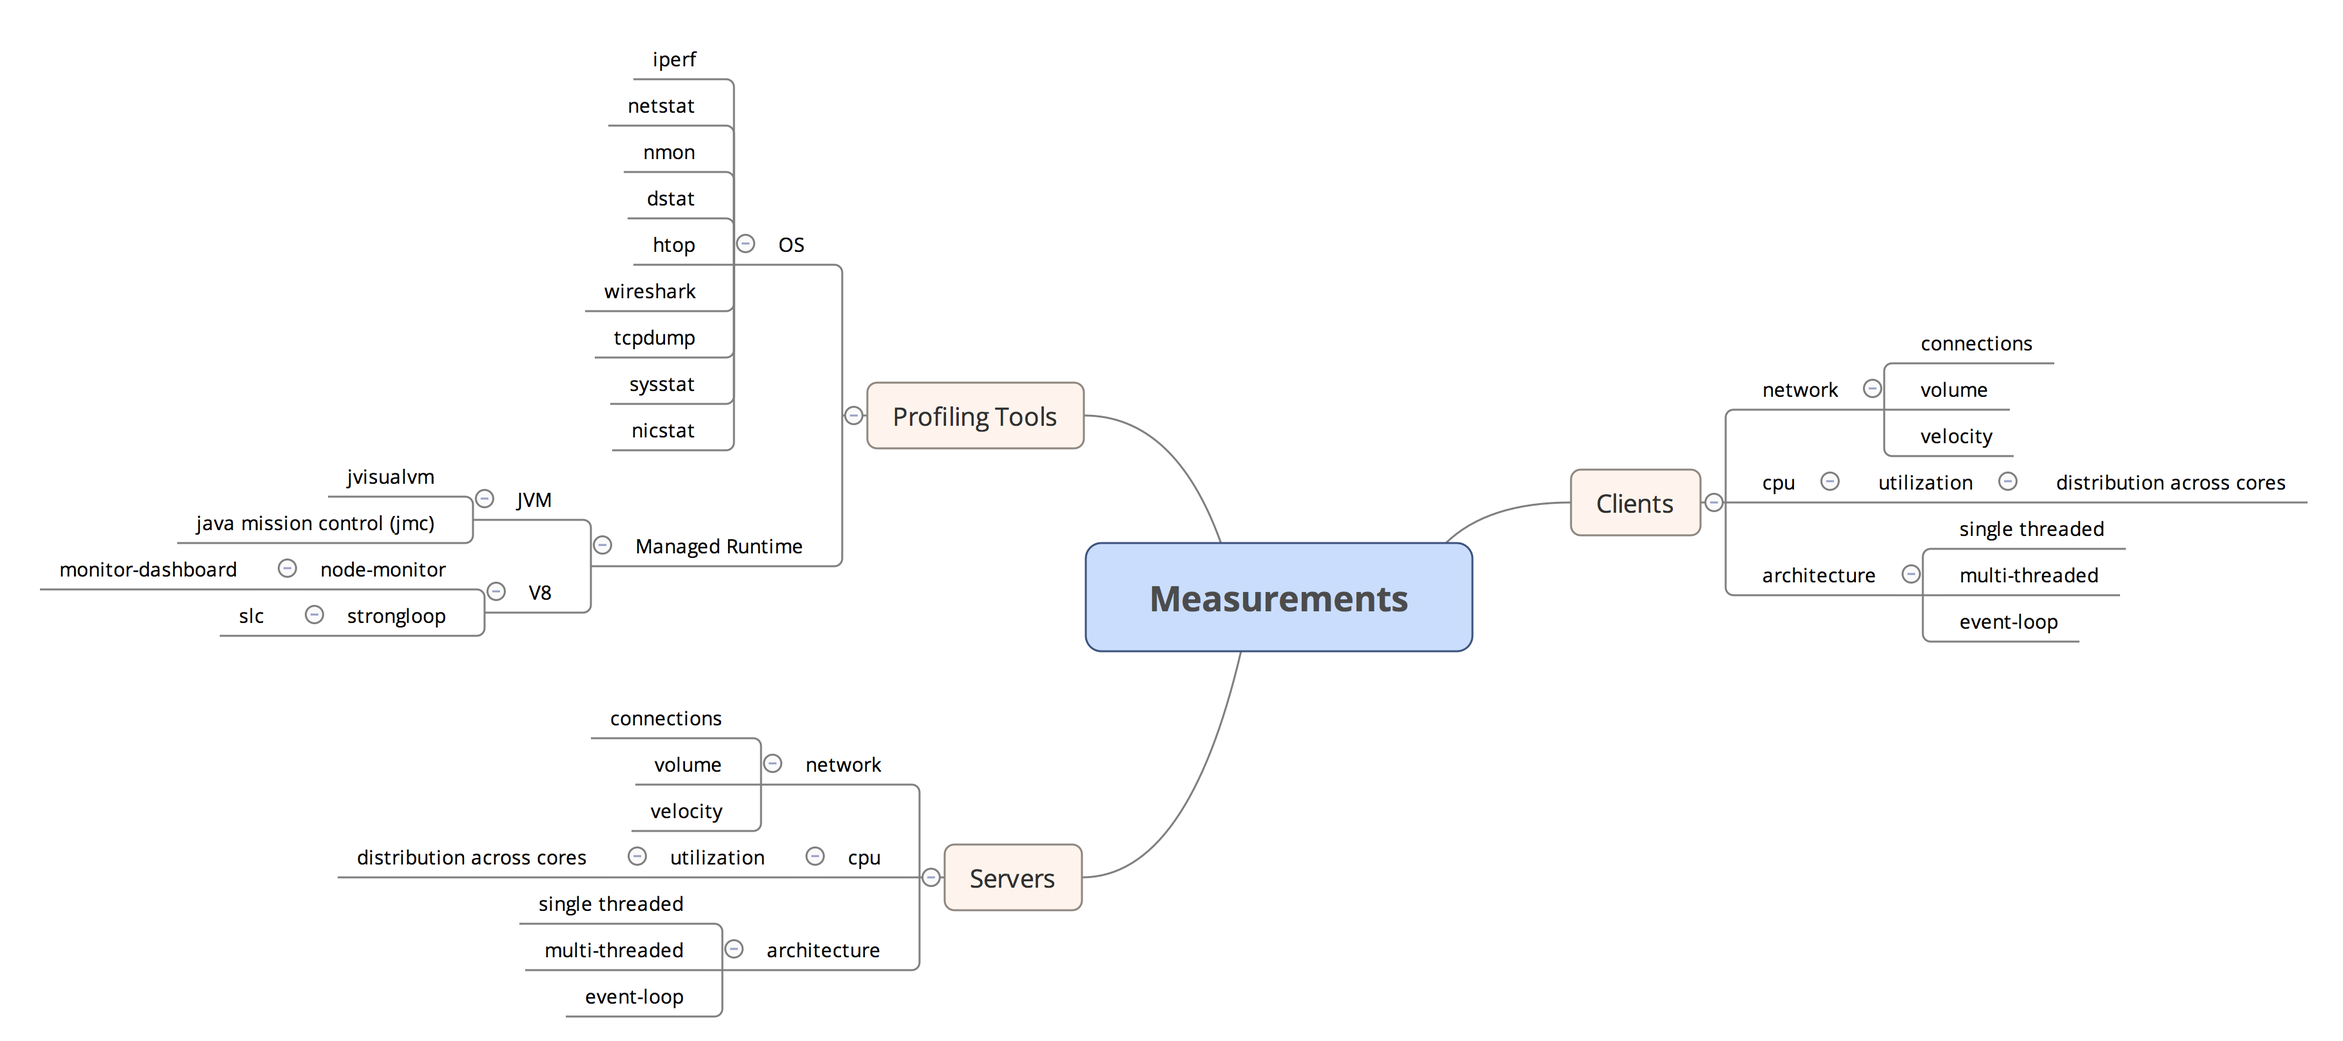
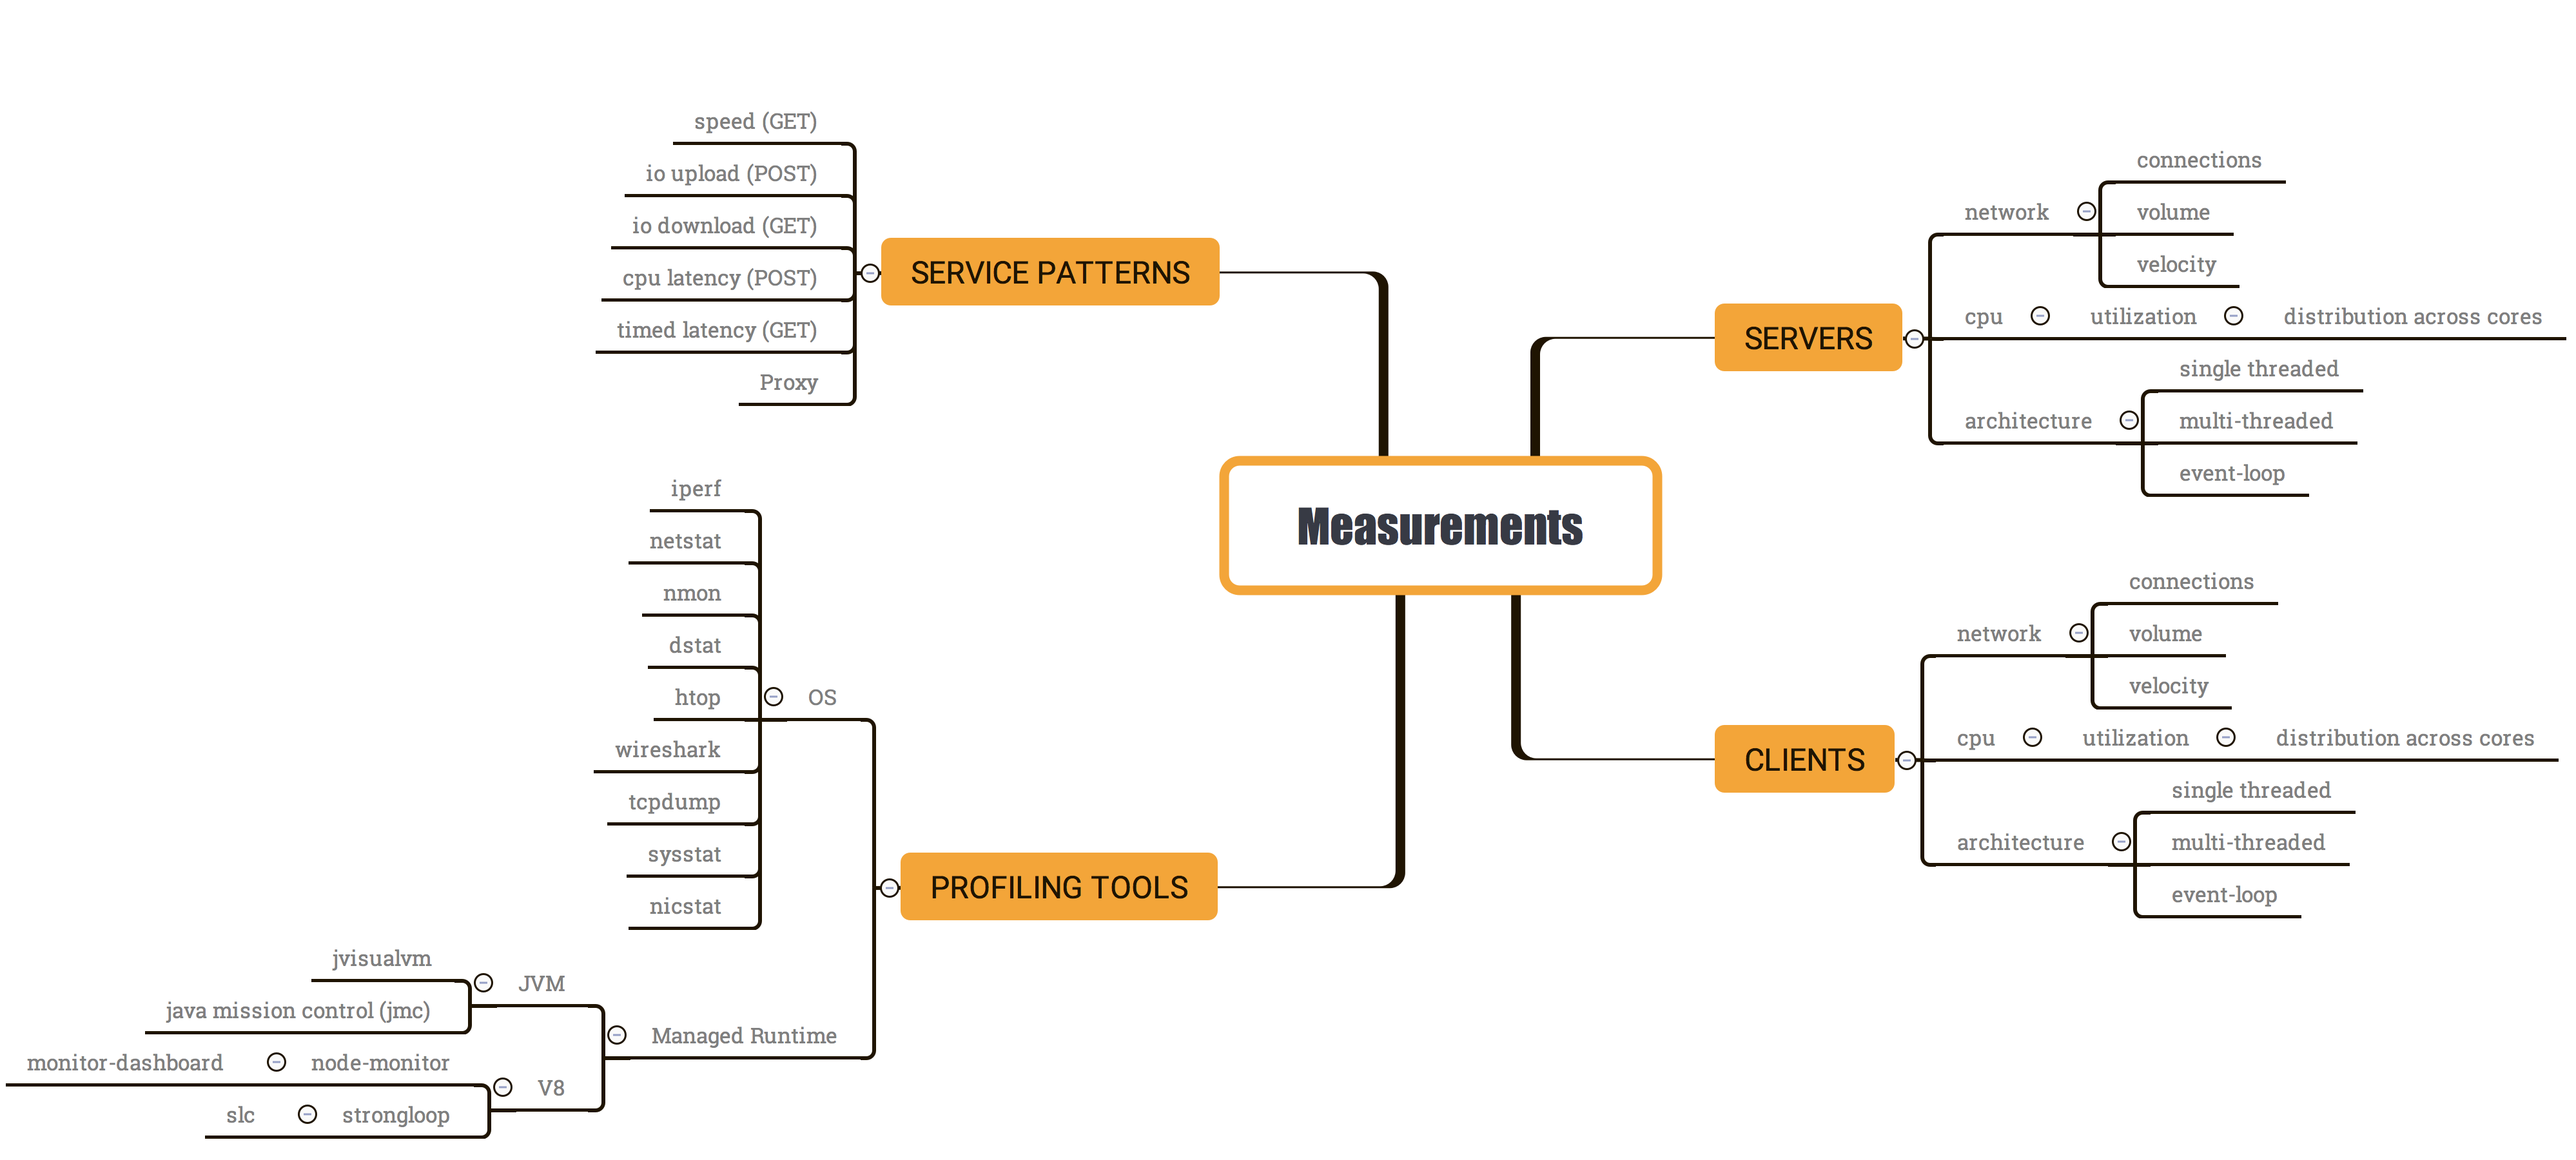
more documentation artifacts

Changed region(s): [[0.0, 0.0619, 0.9945, 0.9901], [0.3729, 0.8354, 0.4662, 0.8663], [0.1554, 0.4332, 0.1865, 0.4641]]

diff --git a/README.md b/README.md
@@ -36,7 +36,7 @@ The approache will be fairly straightforward. To compare benchmark results of di
 Environment  
 
 Measuring Stress
-It is important to measure both the client and the server to approach understanding the results of load tests and benchmarks. 
+It is important to measure both the client and the server to approach understanding the results of load tests and benchmarks. Different service patterns should stress different client/server architectures differently. 
 
 ![protocol](https://raw.githubusercontent.com/petergdoyle/server-perf/master/img/server-perf-measurements.png)
 
